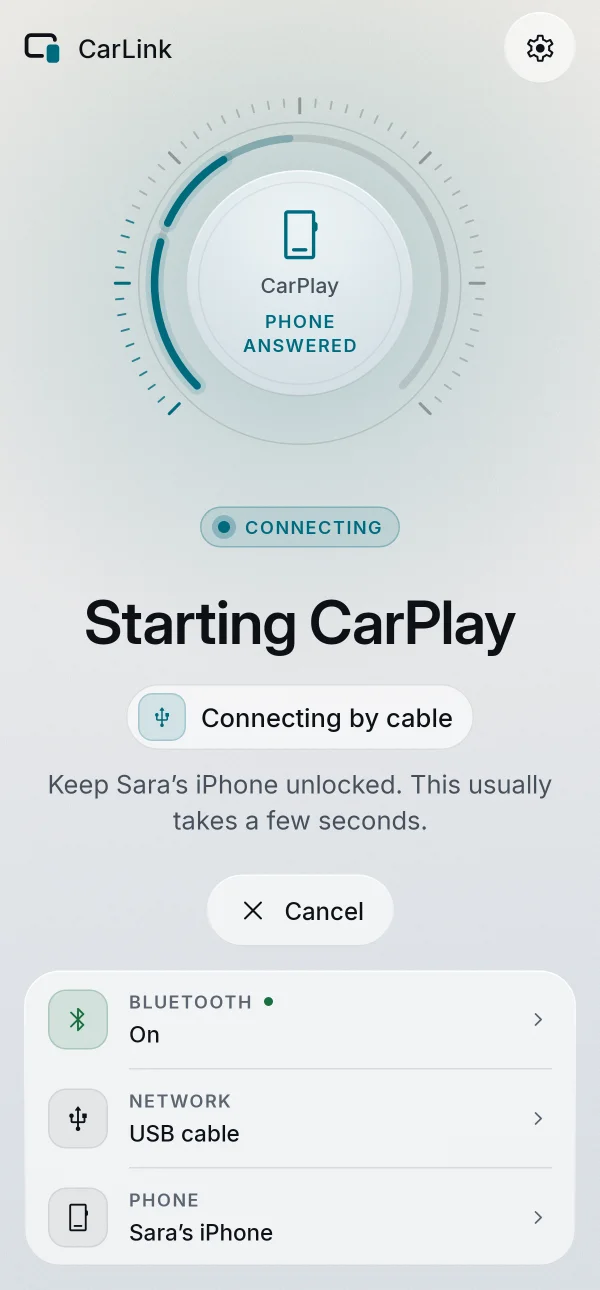
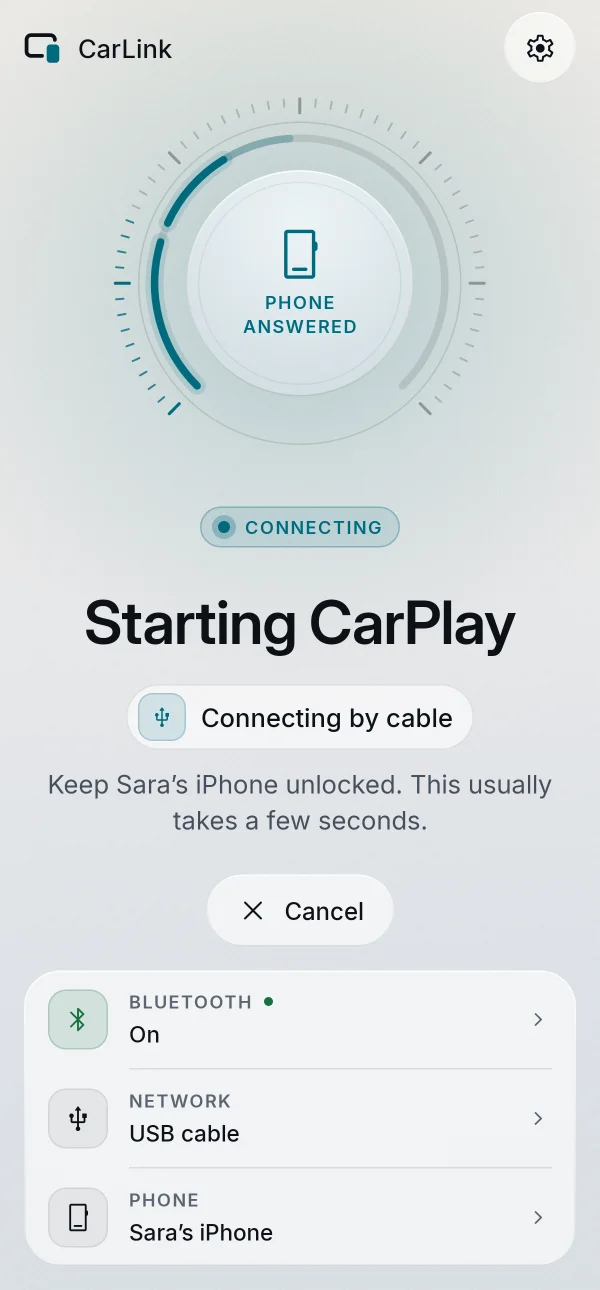
Keep the connection step inside Home's dial on a phone
On a phone the dial's core is under 150 dp, and the engine name (two
lines for "Android Auto") plus the step caption ("PHONE ANSWERED")
overflowed it: the step was cut off at the disc's edge in every
connecting state of the phone gallery. A small dial now shows only the
step while connecting; the headline above already says Starting
CarPlay / Android Auto.

Changed region(s): [[0.39, 0.155, 0.6, 0.2791]]

diff --git a/app/src/main/java/com/carlink/app/ui/home/HomeScreen.kt b/app/src/main/java/com/carlink/app/ui/home/HomeScreen.kt
@@ -583,8 +583,10 @@ private fun HomeDial(mode: HomeMode, ui: HomeUi, modifier: Modifier) {
                         HomeMode.FAILED -> Icon(painterResource(R.drawable.carlink_ic_error_filled), null, Modifier.size(glyph),
                             tint = scheme.error)
                     }
+                    val stepShown = state == HomeMode.CONNECTING || state == HomeMode.NOT_ANSWERING
+                    // A small dial (phone portrait) has no room for both; the headline already names the engine.
                     val showEngine = engine != null && state != HomeMode.READY_EMPTY && state != HomeMode.PERMISSION &&
-                        state != HomeMode.BLUETOOTH_OFF
+                        state != HomeMode.BLUETOOTH_OFF && !(small && stepShown)
                     if (showEngine) {
                         Text(engine!!, style = caption, color = scheme.onSurfaceVariant, textAlign = TextAlign.Center, maxLines = 2)
                     }
@@ -600,7 +602,7 @@ private fun HomeDial(mode: HomeMode, ui: HomeUi, modifier: Modifier) {
                                 maxLines = 1)
                         }
                     }
-                    if (state == HomeMode.CONNECTING || state == HomeMode.NOT_ANSWERING) {
+                    if (stepShown) {
                         val step = if (state == HomeMode.NOT_ANSWERING) 0 else activeStep(link)
                         Text(stepNames()[step].uppercase(java.util.Locale.ROOT), style = MaterialTheme.typography.labelSmall,
                             color = if (state == HomeMode.NOT_ANSWERING) colors.warning else scheme.primary,

diff --git a/CHANGELOG.md b/CHANGELOG.md
@@ -6,6 +6,8 @@ is what the in-app update popup shows.
 
 ## [Unreleased]
 
+- Fixed: on a phone, Home's dial no longer cuts off the connection step ("Reaching phone",
+  "Phone answered") under the CarPlay or Android Auto name while connecting.
 - The head unit's Back button now goes back inside Android Auto instead of opening the menu to
   leave it (#72). Turn it off in Settings › Car › Back button goes back in Android Auto; the
   two-finger swipe from the left edge still opens the menu. Home stays the system's.
